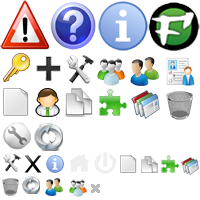
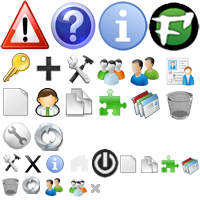
added template previews to template settings and a small ui enhancement

Changed region(s): [[0.45, 0.72, 0.6, 0.9]]

diff --git a/_inc/css/admin.css b/_inc/css/admin.css
@@ -105,7 +105,7 @@ strong{ font-weight:bold }
 #header #menu ul li a:hover{ background:#666 }
 #header #menu ul li a.parent-hover{ background:#666 }
 #header #menu ul li a#title{ background:url(../img/icons.png) no-repeat -64px -151px;padding:6px 12px;margin-right:8px }
-#header #menu ul li a#logout{ background:url(../img/icons.png) no-repeat -90px -151px;float:right;padding:0;margin-top:-6px }
+#header #menu ul li a#logout{ background:url(../img/icons.png) no-repeat -90px -149px;float:right;padding:0;margin-top:-9px }
 #header #menu ul li a.current{ background:#fff;color:#000;border-top:6px solid #1a1 }
 #header #menu ul li{ float:left }
 #header #menu ul > li ul{ display:none;list-style:none;position:absolute;margin:6px 0 0 -1px;z-index:90;background:#fff;border-bottom:1px solid #000;border-left:1px solid #000;border-right:1px solid #000 }
@@ -207,7 +207,7 @@ ul#pages li span{ padding:0 10px }
 .opacity{ opacity: 0.6; filter: alpha( opacity=60 ); }
 #template{ list-style-type:none }
 #template li{ padding: 0;margin-top:10px;display:inline-block;vertical-align:top }
-.template-selectable{ width:30%;min-width:262px;border-color:#999;border-style:solid;border-width:0 1px 1px 1px;margin-left:20px }
+.template-selectable{ width:314px;border-color:#999;border-style:solid;border-width:0 1px 1px 1px;margin-left:20px }
 .temp-cont{ margin:0 6px 6px }
 #temp-screenshot{ border:1px solid #999;margin-top:5px }
 #temp-screenshot p{ margin:3px;font-style:italic }

diff --git a/admin/settings/template.php b/admin/settings/template.php
@@ -77,13 +77,15 @@ foreach($templates as $template){
 
 $i=0;
 foreach( $validated as $array ){
-	$screenshot=(file_exists(HOME.'_www/'.$array[ 'slug' ].'/screenshot.png'))?'<img src="' . SITEURL . '_www/'.$array[ 'slug' ].'/screenshot.png" width="248px"/>': '<p>No Screenshot</p>';
+	$screenshot=(file_exists(HOME.'_www/'.$array[ 'slug' ].'/screenshot.png'))?'<img src="' . SITEURL . '_www/'.$array[ 'slug' ].'/screenshot.png" width="300px"/>': '<p>No Screenshot</p>';
 	if( $i == 0 ){
 		$class = ' activated';
 		$status = 'Activated';
 	}
 	else{
-		$activate = '<a href="' . SITEURL . 'admin/settings/template/activate.php?name=' . $array[ 'slug' ] . '" class="activate-link">Activate</a> | <a class="delete-link link" id="'.$array[ 'slug' ].'">Delete</a>';
+		$activate = '<a href="' . SITEURL . 'admin/settings/template/activate.php?name=' . $array[ 'slug' ] . '" class="activate-link">Activate</a>';
+		$activate .= ' | <a href="' . SITEURL . '?preview=' . $array[ 'Name' ] . '" target="_blank">Preview</a>';
+		$activate .= ' | <a class="delete-link link" id="'.$array[ 'slug' ].'">Delete</a>';
 		$class = '';
 		$status = '';
 	}

diff --git a/_inc/smarty.php b/_inc/smarty.php
@@ -89,10 +89,28 @@ $Smarty->register_function( 'cache_css', 'frontend_css_load' );
 $Smarty->register_function( 'cache_js', 'frontend_javascript_load' );
 $Smarty->register_function( 'page_load_time', 'frontend_page_load_time' );
 
-$file = ( $Page[ 'template' ] == 'Default' ) ? TEMPLATE_DIR . 'index.html' : TEMPLATE_DIR . $Page[ 'template' ] . '.html';
+/**
+ * find correct template to use
+ * and make sure it exists
+ */
+$file = ( $Page[ 'template' ] == 'Default' ) ? 
+		TEMPLATE_DIR . 'index.html' :
+		TEMPLATE_DIR . $Page[ 'template' ] . '.html';
 
 if( !file_exists( $file ) )
         error( 'Template files could not be found.<br/><i>' . $file . '</i>', 'Template Error' );
+
+/**
+ * check if preview is being done, allows for
+ * templates to be previewed. only works for
+ * logged in users
+ */
+if( isset( $_GET[ 'preview' ] ) && $User->verify( ) ){
+	$preview = $_GET[ 'preview' ];
+
+	if( strpos( '..', $preview ) === false && is_dir( HOME . '_www/' . $preview ) )
+		$file = HOME . '_www/' . $preview . '/index.html';
+}
 
 $Smarty->display( $file );
 ?>
